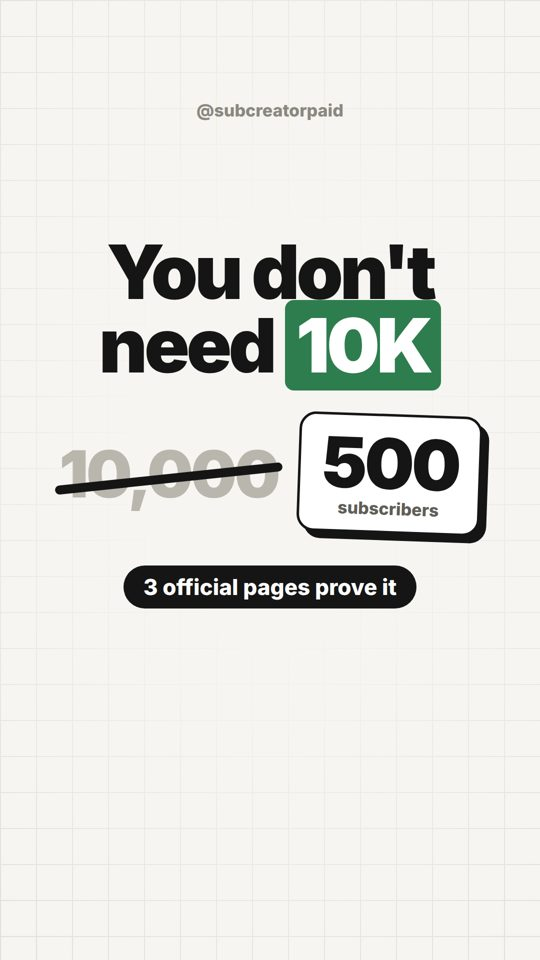
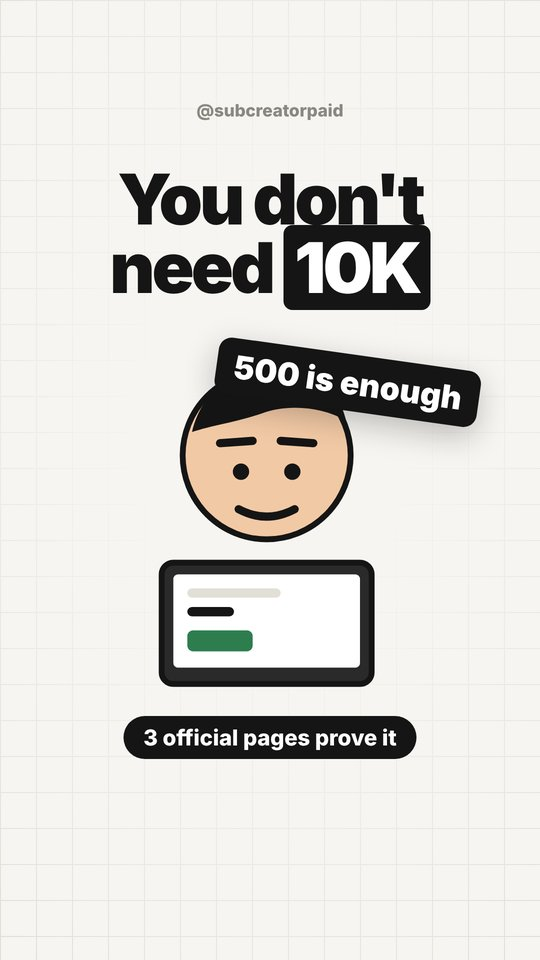
Creator: face-style thumbnails for videos 001-003 (folders + website posters)
Claude-Session: https://claude.ai/code/session_01EqXiLXs9AkGEhjYkBPdfgU

Changed region(s): [[0.0889, 0.1562, 0.9185, 0.8125]]

diff --git a/brain/log.md b/brain/log.md
@@ -21,3 +21,4 @@ One line per run: `YYYY-MM-DD HH:MM | role | what was done | needs owner`
 2026-10-26 14:40 | publisher | 8 videos scheduled in Buffer (24 posts, 18:00 London 26 Oct-2 Nov, IG Reel/TikTok AI label/YT Short Education) via owner's computer; old 7 posts deleted by owner | none
 2026-10-26 15:00 | creator | GitHub Actions minutes ran out after 70 renders; 61 finished videos (plus first 8) copied to owner's Downloads\subcreatorpaid-videos; last 37 paused by owner; master folder now /mnt/project-files/02-videos | say go to render the last 37 locally
 2026-10-26 15:10 | secretary | project folder organised (00-INDEX.md, 01-start-here, 02-videos incl. T1 tutorial, 03-guides, 04-affiliates, 05-style-and-voice, 99-archive; nothing deleted); Project Index artifact BDkpce2TAqHhja1nM9bsKU; 69 finished (8 scheduled), 36 paused | say go on paused renders; affiliate sign-ups
+2026-10-27 07:35 | creator | thumbnails for 001-003 remade in the face style (old phone/dashboard/number covers with 'example' tags replaced) in 02-videos + website posters; old ones in 99-archive | owner: swap the cover on 002 and 003 in Buffer (and 001 if already posted)
